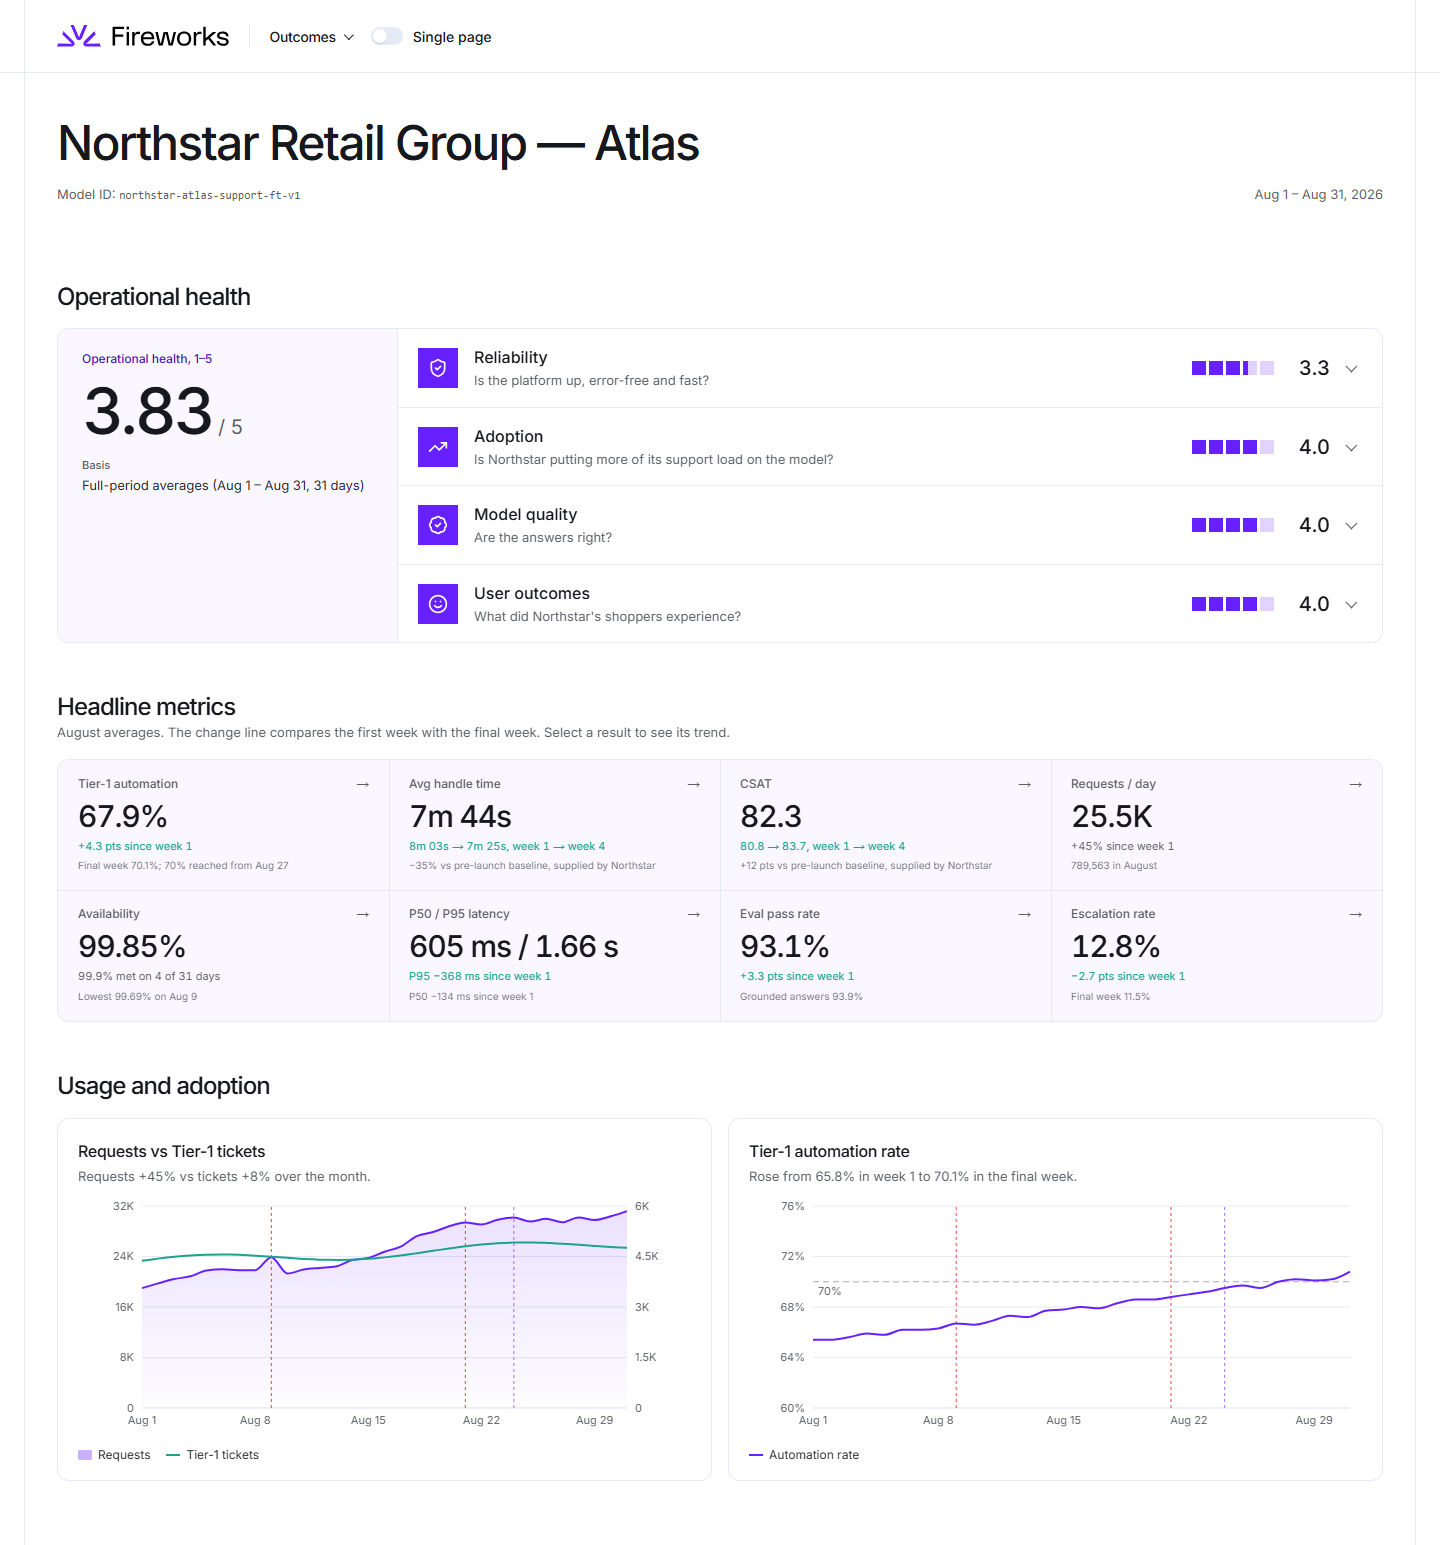
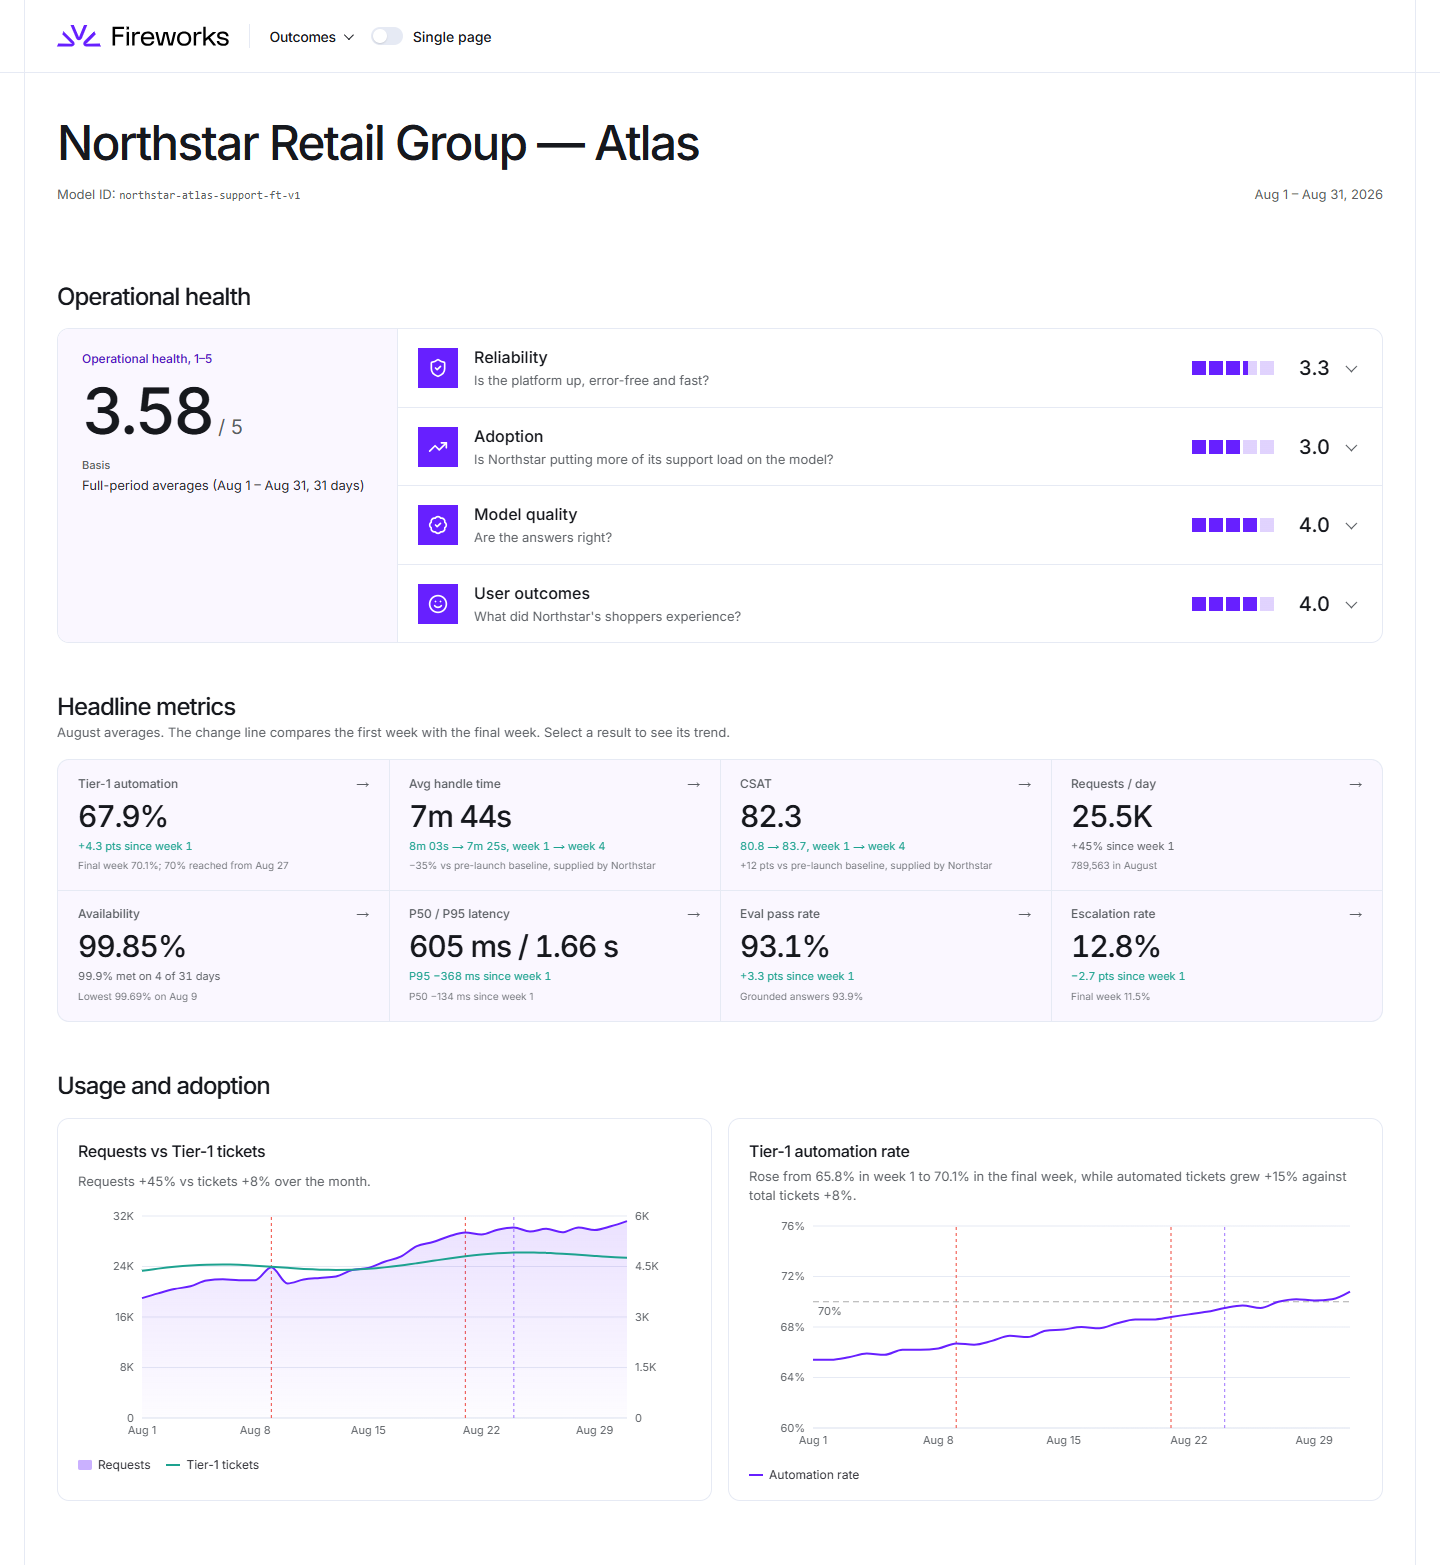
Adoption scored on automation penetration only; request volume removed (#73)

diff --git a/internal-qbr/src/customer-boundary.test.ts b/internal-qbr/src/customer-boundary.test.ts
@@ -31,13 +31,13 @@ describe('customer-health stays customer-safe', () => {
     for (const f of files) expect(readFileSync(f, 'utf8'), f).not.toMatch(forbidden);
   });
 
-  it('scores the four measured pillars only, ~3.83 with weights redistributed', () => {
+  it('scores the four measured pillars only, ~3.58 with weights redistributed', () => {
     const csv = readFileSync(resolve(__dirname, '../../data/northstar_flagship_30_day_metrics.csv'), 'utf8');
     const loaded = loadMetrics(csv);
     if (!loaded.ok) throw new Error('fixture failed to load');
     const health = computeHealth(loaded.rows, {});
     expect(health.pillars.map((p) => p.letter)).toEqual(['R', 'A', 'M', 'U']);
-    expect(health.score).toBeCloseTo(3.83, 2);
+    expect(health.score).toBeCloseTo(3.58, 2);
   });
 
   it('joint actions match internal actions on owner and due date', () => {

diff --git a/shared/src/health/rampup.ts b/shared/src/health/rampup.ts
@@ -149,18 +149,7 @@ export const RAMPUP: PillarDef[] = [
         precision: 1,
         format: (n) => fmtPct(n, 1),
         bands: { direction: 'higher', edges: [80, 70, 60, 45] },
-      },
-      {
-        id: 'volume-trend',
-        label: 'Request volume trend',
-        value: (_w, all) => {
-          const first = avg(all.slice(0, 7), 'requests');
-          const last = avg(all.slice(-7), 'requests');
-          return ((last - first) / first) * 100;
-        },
-        precision: 0,
-        format: (n) => `${n > 0 ? '+' : ''}${n.toFixed(0)}%`,
-        bands: { direction: 'higher', edges: [10, 2, -2, -10] },
+        note: 'Automated Tier-1 tickets as a share of all Tier-1 tickets. Request volume is not scored: it measures consumption, not adoption, and requests per ticket rose over the month.',
       },
     ],
   },

diff --git a/internal-qbr/src/views/TrendsView.tsx b/internal-qbr/src/views/TrendsView.tsx
@@ -43,7 +43,7 @@ export function TrendsView({ m, showEvents = true }: { m: Model; showEvents?: bo
         <ChartCard
           id="chart-automation"
           title="Tier-1 automation rate"
-          headline={`7-day average up from ${fmtPct(cmp.automation.first)} to ${fmtPct(cmp.automation.last)}; ended the month at ${fmtPct(last.automation_rate_pct)}.`}
+          headline={`Penetration up from ${fmtPct(cmp.automation.first)} to ${fmtPct(cmp.automation.last)} (7-day averages) while automated tickets rose ${pctChange(cmp.automated.deltaPct)} against total tickets ${pctChange(cmp.tickets.deltaPct)}; ended the month at ${fmtPct(last.automation_rate_pct)}.`}
         >
           <TrendChart
             data={days}

diff --git a/customer-health/src/views/OutcomesView.tsx b/customer-health/src/views/OutcomesView.tsx
@@ -123,7 +123,7 @@ export function OutcomesView({ m, single = false }: { m: Model; single?: boolean
         <ChartCard
           id="chart-automation"
           title="Tier-1 automation rate"
-          headline={`Rose from ${fmtPct(cmp.automation.first)} in week 1 to ${fmtPct(cmp.automation.last)} in the final week.`}
+          headline={`Rose from ${fmtPct(cmp.automation.first)} in week 1 to ${fmtPct(cmp.automation.last)} in the final week, while automated tickets grew ${pctChange(cmp.automated.deltaPct)} against total tickets ${pctChange(cmp.tickets.deltaPct)}.`}
         >
           <TrendChart
             data={days}

diff --git a/customer-health/src/model.ts b/customer-health/src/model.ts
@@ -40,6 +40,7 @@ export function buildModel(rows: DailyMetric[]) {
       tickets: windowCompare(days, 'tier1_tickets'),
       reqPerTicket: windowCompare(days, 'requests_per_ticket'),
       automation: windowCompare(days, 'automation_rate_pct'),
+      automated: windowCompare(days, 'automated_tier1_tickets'),
       spend: windowCompare(days, 'spend_usd'),
       costPer1k: windowCompare(days, 'cost_per_1k_requests_usd'),
       p50: windowCompare(days, 'p50_latency_ms'),

diff --git a/internal-qbr/src/model.ts b/internal-qbr/src/model.ts
@@ -35,6 +35,7 @@ export function buildModel(rows: DailyMetric[]) {
       tickets: windowCompare(days, 'tier1_tickets'),
       reqPerTicket: windowCompare(days, 'requests_per_ticket'),
       automation: windowCompare(days, 'automation_rate_pct'),
+      automated: windowCompare(days, 'automated_tier1_tickets'),
       spend: windowCompare(days, 'spend_usd'),
       costPer1k: windowCompare(days, 'cost_per_1k_requests_usd'),
       p50: windowCompare(days, 'p50_latency_ms'),

diff --git a/shared/src/health/rampup.test.ts b/shared/src/health/rampup.test.ts
@@ -70,7 +70,7 @@ describe('computeHealth on the Northstar dataset (full-period averages)', () => 
   it('weights pillars 20/20/20/10/20/10 and lands in Positive-Watch', () => {
     const weights = health.pillars.map((p) => p.weight);
     expect(weights.reduce((a, b) => a + b, 0)).toBeCloseTo(1, 10);
-    expect(health.score).toBeCloseTo(3.37, 2);
+    expect(health.score).toBeCloseTo(3.17, 2);
     expect(health.status).toBe('positive-watch');
   });
 

diff --git a/docs/RAMPUP.md b/docs/RAMPUP.md
@@ -60,8 +60,9 @@ Notes:
 
 | Metric | Direction | 5 | 4 | 3 | 2 | Source |
 |---|---|---|---|---|---|---|
-| Tier-1 automation | higher | ≥ 80% | ≥ 70% | ≥ 60% | ≥ 45% | Agreed bands. Context below |
-| Request volume trend (first vs last 7 days) | higher | ≥ +10% | ≥ +2% | ≥ −2% | ≥ −10% | Internal rule |
+| Tier-1 automation (automated Tier-1 tickets ÷ all Tier-1 tickets) | higher | ≥ 80% | ≥ 70% | ≥ 60% | ≥ 45% | Agreed bands. Context below |
+
+**Why request volume is not scored.** Request volume measures consumption, not adoption. Requests per Tier-1 ticket rose from 4.6 to 6.2 over August, so volume can grow because the model makes more calls per ticket while the share of work entrusted to it stays flat. Scoring it would reward exactly that. Adoption is scored on automation penetration alone; automated-ticket volume is reported alongside it as context against total ticket volume (week 1 → final week: penetration 65.8% → 70.1%, automated tickets +15%, total tickets +8%).
 
 Context for the automation bands:
 - **Freshworks:** AI agents deflect 53% of retail queries, the highest of any industry ([Freshworks Customer Service Benchmark 2025](https://www.freshworks.com/assets/resources/Customer-Service-Benchmark-Report-2025.pdf)).
@@ -139,17 +140,17 @@ Set by the account team in [`internal-qbr/src/judgements.ts`](../internal-qbr/sr
 | Pillar | Inputs → scores | Pillar score | Weighted |
 |---|---|---|---|
 | R | Availability 99.85% → 4 · errors 1.04% → 3 · P50 605 ms → 3 · P95 1.67 s → 3 | 3.33 | 0.67 |
-| A | Automation 67.9% → 3 · volume +45% → 5 | 4.00 | 0.80 |
+| A | Automation 67.9% → 3 | 3.00 | 0.60 |
 | M | Grounded 93.9% → 4 · eval pass 93.1% → 4 | 4.00 | 0.80 |
 | P | Judgement | 2.00 | 0.20 |
 | U | CSAT 82.3 → 4 · handle time 7m 44s → 4 · first-contact resolution 87.2% → 4 | 4.00 | 0.80 |
 | P | Judgement | 1.00 | 0.10 |
-| **Overall** | | **3.37 / 5 (Positive-Watch)** | |
+| **Overall** | | **3.17 / 5 (Positive-Watch)** | |
 
 What the score says:
-- **Strengths:** adoption, model quality and user outcomes (all 4.0).
+- **Strengths:** model quality and user outcomes (both 4.0). Adoption is 3.0: automation averaged 67.9%, just under the 70% band, though it ended the month at 70.1%.
 - **Weaknesses:** profitability (current revenue immaterial relative to the group-wide ceiling), partnership (needs buy-in beyond Atlas) and reliability (latency and the Aug 9 incident).
-- **Status:** 3.37 is Positive-Watch, 0.63 short of Healthy.
+- **Status:** 3.17 is Positive-Watch, 0.83 short of Healthy.
 - **For the expansion case:** both judgement pillars point the same way. Scaling to the four sister brands on a shared model is what makes the account worth its support cost and turns a single-brand relationship into a group one. The pitch: "prove reliability on Atlas, win group sponsorship, then scale".
 
 ## Decision log

diff --git a/docs/DECISIONS.md b/docs/DECISIONS.md
@@ -105,3 +105,4 @@ Scoring-specific detail (bands, sources, formulas) lives in [RAMPUP.md](RAMPUP.m
 | 70 | 2026-10-05 | **Pipeline column "Confidence" renamed "Likelihood on timeline"** | It is the account team's judgement of whether each brand converts on the stated timeline; "Confidence" could be read as statistical confidence or confidence in the volume figures | Keeping "Confidence" with a caption definition |
 | 71 | 2026-10-05 | **Experiment kept; Favorit removed.** `experiment/web-design` fast-forwarded into main (the `pre-web-design` tag stays as the fallback); screenshots regenerated and the ZIP rebuilt. With every label in Inter (#64), the licensed Favorit file, its @font-face and token were deleted | An unused commercial font in the submission is licence risk with no benefit | Keeping the file loaded but unused |
 | 72 | 2026-10-05 | **Availability: telemetry before capacity.** Replaced the "scale-to-zero explains the misses, a warm replica buys ~22 minutes/month (~$200 per minute)" story everywhere (ARCHITECTURE.md, internal decision, risk, margin card and actions, customer Service and Spend pages, README, DESIGN.md, EBR slide 3 and close) with observed / known / unknown / action: 99.85% and below 99.9% on 27 of 31 days (25 outside the incidents); 21 Aug involved burst and autoscaling; the contributions of scale-to-zero, scale-up lag, application errors and other serving failures are unknown; pull deployment telemetry, retune autoscaling, add a warm floor only if telemetry shows cold starts or scale-up are a material driver. Warm-H100 economics unchanged | At 19–31k requests/day Atlas is unlikely to sit at zero for long, and the misses are spread across the month; 22 minutes is just the arithmetic gap between 99.85% and 99.9%, not evidence those minutes are cold-start downtime. Infrastructure shouldn't be diagnosed from aggregate business metrics | Keeping the warm-replica causal story |
+| 73 | 2026-10-05 | **Adoption scored on automation penetration only; request-volume growth removed from the score.** Adoption = automated Tier-1 tickets ÷ Tier-1 tickets (67.9% → 3). Automated-ticket volume is shown as context against total tickets in the automation chart headlines (penetration 65.8% → 70.1%, automated tickets +15%, total tickets +8%). A falls 4.0 → 3.0; internal score 3.37 → 3.17 (still Positive-Watch); customer score 3.83 → 3.58 | Request volume is consumption, not adoption: with requests per ticket rising 4.6 → 6.2, the old metric would score the model making more calls per ticket as higher adoption, the opposite of what we want | Keeping volume growth as a second Adoption metric; scoring automated-ticket growth |

diff --git a/docs/DESIGN.md b/docs/DESIGN.md
@@ -50,22 +50,22 @@ Two dashboards built from the same August dataset: an **internal QBR** for Firew
 | Pillar | Weight | Scored by |
 |---|---|---|
 | Reliability | 20% | availability, error rate, P50/P95 latency vs benchmark bands |
-| Adoption | 20% | Tier-1 automation, volume trend |
+| Adoption | 20% | Tier-1 automation penetration (request volume is consumption, not adoption, so it is not scored) |
 | Model quality | 20% | grounded answers, eval pass |
 | Partnership | 10% | account-team judgement (internal only) |
 | User outcomes | 20% | CSAT, handle time and first-contact resolution |
 | Profitability | 10% | account-team judgement, Fireworks' commercial view (internal only) |
 
 - Each metric scores 1–5 on its **full-period average**, rounded to display precision first; a pillar is the weighted mean of its metrics.
-- **Internal: 3.37 / 5, Positive-Watch** (Healthy ≥ 4, Positive-Watch ≥ 3, Negative-Watch ≥ 2, At risk < 2).
-- **Customer: 3.83 / 5** from the four measured pillars only; the judgement pillars' weight is redistributed, so each shows as 25%.
+- **Internal: 3.17 / 5, Positive-Watch** (Healthy ≥ 4, Positive-Watch ≥ 3, Negative-Watch ≥ 2, At risk < 2).
+- **Customer: 3.58 / 5** from the four measured pillars only; the judgement pillars' weight is redistributed, so each shows as 25%.
 - **Focus areas** lists the three items furthest from a perfect 5, by exact position within each band.
 
 ## 6. Internal vs customer
 
 | Item | Internal QBR | Customer health |
 |---|---|---|
-| Health score | All six pillars, 3.37, status band shown | Four measured pillars, 3.83, "Operational health, 1–5", no status band |
+| Health score | All six pillars, 3.17, status band shown | Four measured pillars, 3.58, "Operational health, 1–5", no status band |
 | Focus areas (lowest-scoring items) | Yes | No |
 | Headline metrics and trend charts | Yes | Yes, same figures |
 | Operational events | As logged | Restated in plain customer language |

diff --git a/README.md b/README.md
@@ -20,7 +20,7 @@ The two dashboards are **separate apps** sharing one data and design package (`s
 - **Month one worked.** Tier-1 automation reached 70% by month end (67.9% August average), and quality improved every week.
 - **Reliability is the gap: 99.85% availability, below 99.9% on 27 of 31 days.** The cause can't be read from daily metrics, so the plan is telemetry first, autoscaling retune second, and always-on capacity only if the evidence calls for it (cheap per brand once five brands share it).
 - **Recommendation:** expand on one base model with an adapter, knowledge index and prompt per brand, piloting on Ridgeline first.
-- **Account health:** 3.37 / 5 internally (Positive-Watch); 3.83 / 5 on the customer view, which scores operational pillars only.
+- **Account health:** 3.17 / 5 internally (Positive-Watch); 3.58 / 5 on the customer view, which scores operational pillars only.
 
 ## Quick start
 
